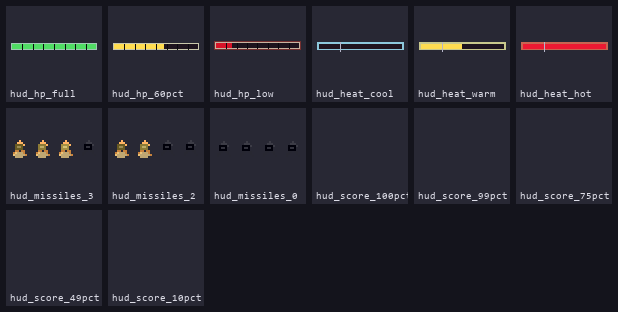
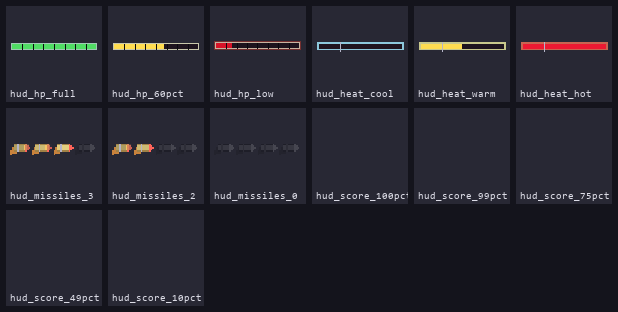
fix BLOQUE 58.42 - HUD misiles rediseñados (horizontales, warhead rojo, banda, aletas, estela)

Changed region(s): [[0.1845, 0.4615, 0.4919, 0.5192], [0.0, 0.4615, 0.1537, 0.5192]]

diff --git a/src/ui/hud.py b/src/ui/hud.py
@@ -28,10 +28,11 @@ from src.systems.scoring_system import ScoringSystem
 from src.systems.weapon_system import WeaponSystem
 
 
-# Layout — BLOQUE 58.41 (minimalist)
+# Layout — BLOQUE 58.42 (missile icons now 9x5, horizontal)
 HUD_MARGIN = 3
-ROW_H = 11  # tighter spacing
-ICON_SIZE = 8
+ROW_H = 11
+ICON_SIZE_W = 9
+ICON_SIZE_H = 5
 GOLD_RING_ICON_SIZE = 5
 HP_BAR_W = 80
 HP_BAR_H = 5
@@ -202,74 +203,109 @@ class HUD:
         return y + ROW_H
 
     def _draw_missiles(self, target: pygame.Surface, player: Player, y: int, t: float) -> int:
-        """BLOQUE 58.41: minimalist missile icons (replaces bomb rounds).
+        """BLOQUE 58.41/58.42: clear horizontal missile icons (replaces bomb rounds).
 
-        Each icon is a tiny vertical missile silhouette: pointed nose,
-        thin body, two small fins. Ready missiles pulse warm yellow with
-        a faint engine glow. Spent missiles are dark silhouettes.
+        Each icon is a 9x5 horizontal missile: pointed red warhead, body
+        with band ring, 2 fins, and engine flame trail. Ready missiles
+        pulse warm yellow with bright flame. Spent = dark silhouette.
         """
         x = HUD_MARGIN
         bombs = player.bombs
         max_bombs = player.bombs_max
         icon_cy = y + ROW_H // 2
         for i in range(max_bombs):
-            bx = x + i * (ICON_SIZE + 3)
+            bx = x + i * (ICON_SIZE_W + 4)
             is_ready = i < bombs
             self._draw_missile_icon(target, bx, icon_cy, ready=is_ready, t=t, idx=i)
         return y + ROW_H
 
     def _draw_missile_icon(self, target: pygame.Surface, x: int, y: int,
                             ready: bool, t: float, idx: int) -> None:
-        """BLOQUE 58.41: draw a single minimalist missile silhouette.
+        """BLOQUE 58.42: draw a clear missile silhouette.
 
-        Vertical orientation. Pointed nose at top, body, two small fins at
-        the bottom, optional engine glow when ready.
+        Horizontal orientation (nose pointing right) so the silhouette
+        reads instantly as "missile". 9x5 px footprint with:
+          - pointed warhead (triangle nose)
+          - cylindrical body (rect with darker edge)
+          - band/ring (mid-body detail, makes it look like a real warhead)
+          - 2 fins at the back
+          - engine glow trailing behind
+        When ready: warm yellow with pulsing engine flame. Spent: dark gray.
         """
-        # Missile geometry (6 px tall, 4 px wide)
-        body_x = x
-        body_y = y - 2  # center vertically in the row
-        body_w = 4
+        # Center the missile on (x, y)
+        body_w = 7
         body_h = 5
+        body_x = x
+        body_y = y - body_h // 2
         # Color palette
         if ready:
-            pulse = 0.7 + 0.3 * math.sin(t * 4.0 + idx * 0.6)
-            body_col = (int(220 * pulse), int(200 * pulse), int(120 * pulse))
-            nose_col = (255, 180, 100)
+            pulse = 0.75 + 0.25 * math.sin(t * 4.0 + idx * 0.6)
+            body_col = (int(230 * pulse), int(210 * pulse), int(130 * pulse))
+            body_dark = (160, 130, 70)
+            nose_col = (255, 100, 90)        # red warhead tip
+            band_col = (180, 180, 200)      # silver/gray ring
             fin_col = (200, 130, 60)
-            engine_col = (255, 220, 140)
+            engine_col = (255, 200, 100)
         else:
-            body_col = (50, 50, 60)
-            nose_col = (60, 60, 70)
-            fin_col = (40, 40, 50)
+            body_col = (55, 55, 65)
+            body_dark = (30, 30, 40)
+            nose_col = (70, 70, 80)
+            band_col = (45, 45, 55)
+            fin_col = (35, 35, 45)
             engine_col = (40, 40, 50)
-        # Nose (pointed triangle on top)
-        pygame.draw.polygon(target, nose_col, [
-            (body_x + body_w // 2, body_y - 1),       # tip
-            (body_x + body_w, body_y + 1),           # right base
-            (body_x, body_y + 1),                    # left base
-        ])
-        # Body (rectangle)
-        pygame.draw.rect(target, body_col, (body_x, body_y + 1, body_w, body_h - 2))
-        # Body outline (darker edge for definition)
-        pygame.draw.rect(target, (max(0, body_col[0] - 50), max(0, body_col[1] - 50),
-                                    max(0, body_col[2] - 50)),
-                          (body_x, body_y + 1, body_w, body_h - 2), 1)
-        # Wings / fins (small triangles at the bottom)
-        pygame.draw.polygon(target, fin_col, [
-            (body_x, body_y + body_h - 1),
-            (body_x - 1, body_y + body_h + 1),
-            (body_x + 1, body_y + body_h - 1),
-        ])
-        pygame.draw.polygon(target, fin_col, [
-            (body_x + body_w, body_y + body_h - 1),
-            (body_x + body_w + 1, body_y + body_h + 1),
-            (body_x + body_w - 1, body_y + body_h - 1),
-        ])
-        # Engine glow (small dot below when ready)
+        # Engine glow trail (behind the missile, when ready)
         if ready:
-            glow = pygame.Surface((6, 3), pygame.SRCALPHA)
-            pygame.draw.ellipse(glow, (*engine_col, 180), (0, 0, 6, 3))
-            target.blit(glow, (body_x - 1, body_y + body_h))
+            trail_w = 5
+            trail = pygame.Surface((trail_w + 4, body_h + 4), pygame.SRCALPHA)
+            for i in range(trail_w):
+                t_factor = i / max(1, trail_w - 1)
+                col = (
+                    int(255 * (1 - t_factor)),
+                    int(200 * (1 - t_factor)),
+                    int(100 * (1 - t_factor * 0.5)),
+                    int(220 * (1 - t_factor)),
+                )
+                pygame.draw.rect(trail, col,
+                                  (i, 2 + (1 - t_factor) * 1, 1, body_h - int(2 * (1 - t_factor))))
+            target.blit(trail, (body_x - trail_w - 2, body_y - 2))
+        # Fins (back, 2 triangles extending out)
+        fin_back_x = body_x
+        fin_mid_y = body_y + 1
+        fin_bot_y = body_y + body_h + 1
+        pygame.draw.polygon(target, fin_col, [
+            (fin_back_x, fin_mid_y),
+            (fin_back_x - 2, fin_bot_y),
+            (fin_back_x + 1, fin_bot_y - 1),
+        ])
+        pygame.draw.polygon(target, fin_col, [
+            (fin_back_x, fin_mid_y + body_h - 2),
+            (fin_back_x - 2, fin_mid_y + body_h - 2),
+            (fin_back_x + 1, fin_mid_y + body_h - 1),
+        ])
+        # Body (rectangle) - main cylinder
+        pygame.draw.rect(target, body_col, (body_x, body_y, body_w, body_h))
+        # Body darker top/bottom edges (gives cylinder look)
+        pygame.draw.line(target, body_dark,
+                          (body_x, body_y), (body_x + body_w, body_y), 1)
+        pygame.draw.line(target, body_dark,
+                          (body_x, body_y + body_h - 1),
+                          (body_x + body_w, body_y + body_h - 1), 1)
+        # Band/ring around the middle (3/4 from back)
+        band_x = body_x + 2
+        pygame.draw.line(target, band_col,
+                          (band_x, body_y), (band_x, body_y + body_h - 1), 1)
+        # Warhead (red pointed nose) at the FRONT (right side)
+        warhead_back_x = body_x + body_w
+        warhead_mid_y = body_y + body_h // 2
+        pygame.draw.polygon(target, nose_col, [
+            (warhead_back_x, body_y),
+            (warhead_back_x, body_y + body_h - 1),
+            (warhead_back_x + 2, warhead_mid_y),
+        ])
+        # Bright tip dot
+        if ready:
+            pygame.draw.circle(target, (255, 240, 200),
+                              (warhead_back_x + 2, warhead_mid_y), 0)
 
     def _draw_score(self, target: pygame.Surface, scoring: ScoringSystem,
                     kill_ratio: float, t: float) -> None:
